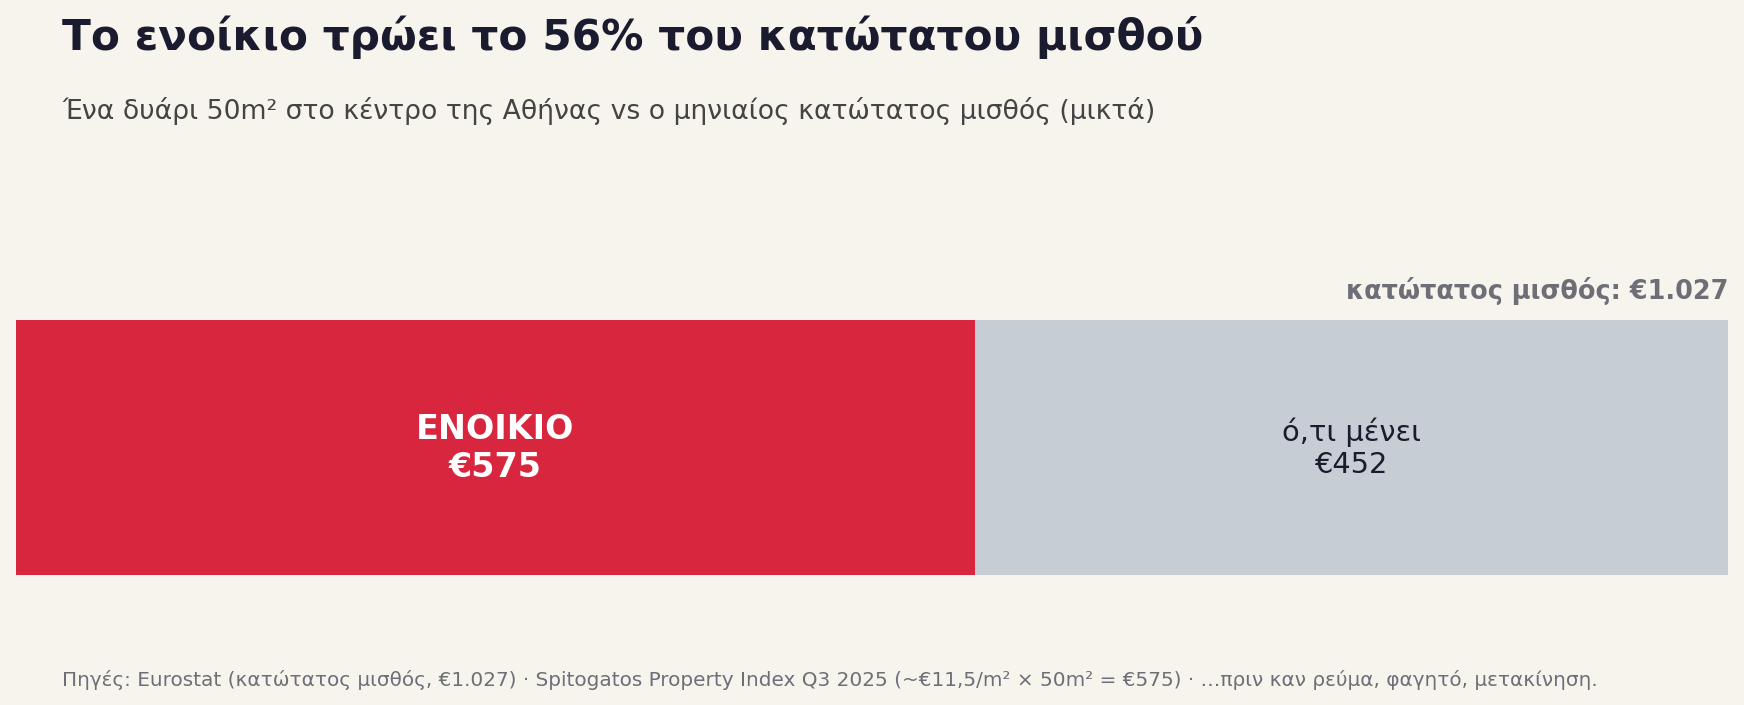
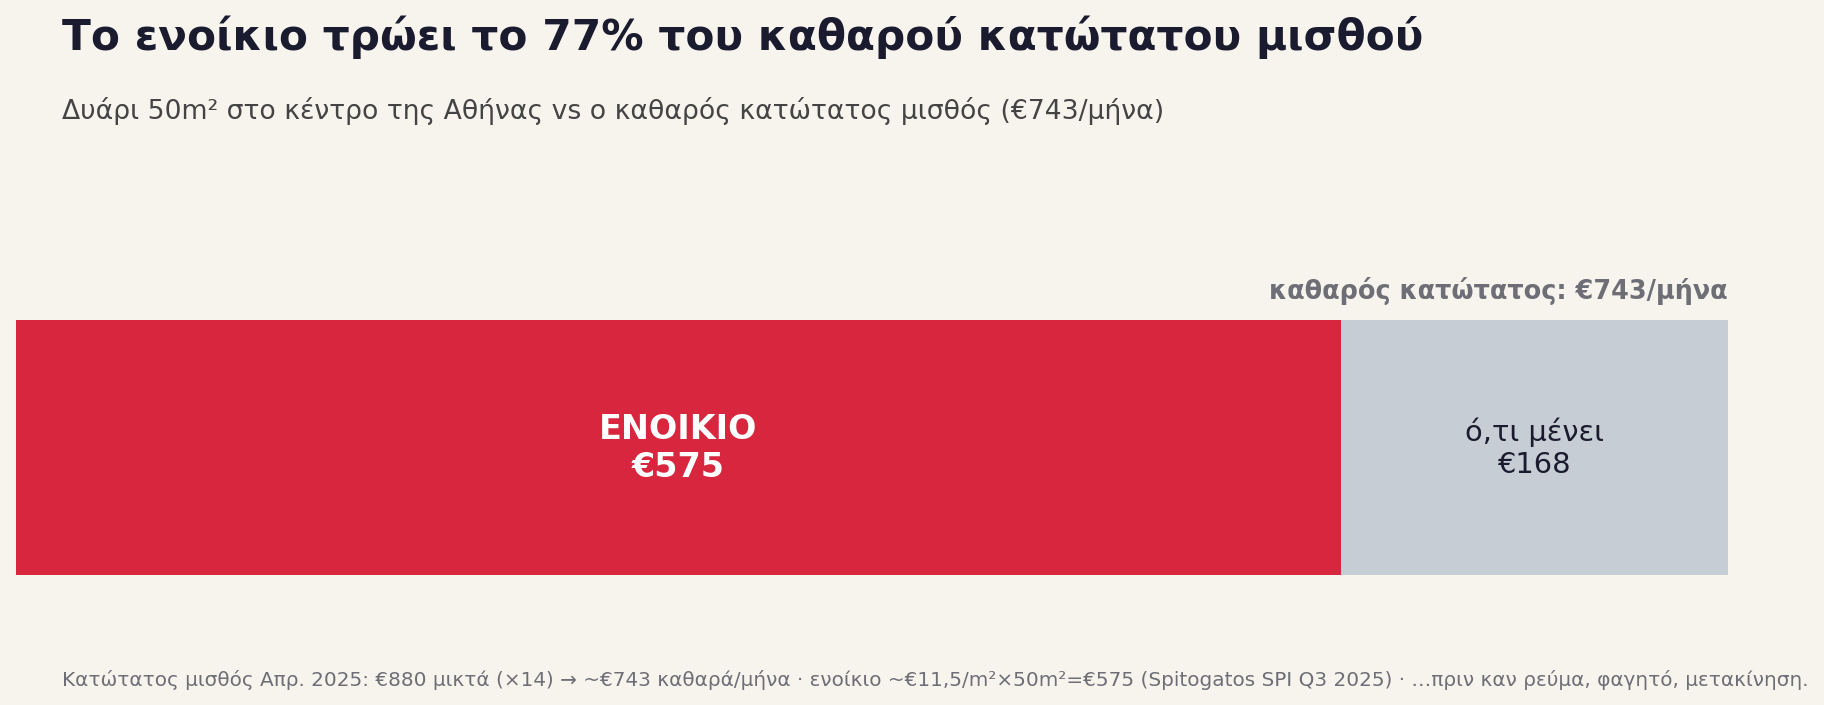
Fix minimum-wage framing: rent vs NET wage (77%), not gross-12mo (56%)
The €1.027 Eurostat figure is the 12-month-harmonized minimum wage (Greek
statutory €880 gross ×14 payments). Comparing rent to it understated the burden
and used a number Greeks don't recognize. Housing chart + post now use net
take-home €743/mo → rent = 77%. Scorecard clarifies the €1.027 harmonization.

diff --git a/housing/scripts/chart.py b/housing/scripts/chart.py
@@ -1,7 +1,7 @@
 #!/usr/bin/env python3
 """Housing-cluster chart: rent as a share of the minimum wage.
 Run from housing/:  python3 scripts/chart.py  → output/young_persons_bill.png
-Sources: Eurostat earn_mw_cur (min wage €1.027), Spitogatos SPI Q3 2025 (~€11,5/m² → €575/50m²).
+Sources: Greek statutory min wage Apr-2025 €880 gross (×14) → ~€743 net/mo; Spitogatos SPI Q3 2025 (~€11,5/m² → €575/50m²).
 """
 import os
 import matplotlib
@@ -9,7 +9,7 @@ matplotlib.use("Agg")
 import matplotlib.pyplot as plt
 
 PAPER, INK, RED, GRAY, MUTED = "#F7F4EE", "#1B1B2F", "#D7263D", "#C7CDD4", "#6E6E76"
-WAGE, RENT = 1027, 575
+WAGE, RENT = 743, 575   # καθαρός κατώτατος €743/μήνα (μικτός €880×14μ), ενοίκιο 50m² κέντρο
 REMAIN = WAGE - RENT
 rent_pct = round(100 * RENT / WAGE)
 
@@ -21,17 +21,17 @@ ax.text(RENT / 2, 0, f"ΕΝΟΙΚΙΟ\n€{RENT}", ha="center", va="center", col
 ax.text(RENT + REMAIN / 2, 0, f"ό,τι μένει\n€{REMAIN}", ha="center", va="center",
         color=INK, fontsize=13)
 # bracket / total
-ax.annotate(f"κατώτατος μισθός: €{WAGE:,}".replace(",", "."), xy=(WAGE, 0.45),
+ax.annotate(f"καθαρός κατώτατος: €{WAGE:,}".replace(",", ".") + "/μήνα", xy=(WAGE, 0.45),
             ha="right", va="bottom", fontsize=11.5, color=MUTED, fontweight="bold")
 ax.set_xlim(0, WAGE)
 ax.set_ylim(-0.6, 0.7)
 ax.axis("off")
-fig.suptitle(f"Το ενοίκιο τρώει το {rent_pct}% του κατώτατου μισθού",
+fig.suptitle(f"Το ενοίκιο τρώει το {rent_pct}% του καθαρού κατώτατου μισθού",
              fontsize=19, fontweight="bold", x=0.04, ha="left", color=INK, y=0.96)
-fig.text(0.04, 0.82, "Ένα δυάρι 50m² στο κέντρο της Αθήνας vs ο μηνιαίος κατώτατος μισθός (μικτά)",
+fig.text(0.04, 0.82, "Δυάρι 50m² στο κέντρο της Αθήνας vs ο καθαρός κατώτατος μισθός (€743/μήνα)",
          fontsize=12, color="#444")
-fig.text(0.04, 0.05, "Πηγές: Eurostat (κατώτατος μισθός, €1.027) · Spitogatos Property Index Q3 2025 "
-                     "(~€11,5/m² × 50m² = €575) · …πριν καν ρεύμα, φαγητό, μετακίνηση.",
+fig.text(0.04, 0.05, "Κατώτατος μισθός Απρ. 2025: €880 μικτά (×14) → ~€743 καθαρά/μήνα · ενοίκιο ~€11,5/m²×50m²=€575 "
+                     "(Spitogatos SPI Q3 2025) · …πριν καν ρεύμα, φαγητό, μετακίνηση.",
          fontsize=9, color=MUTED)
 ax.set_facecolor(PAPER); fig.patch.set_facecolor(PAPER)
 fig.tight_layout(rect=[0, 0.08, 1, 0.80])

diff --git a/README.md b/README.md
@@ -63,7 +63,7 @@ Cross-analysis tying together Airbnb + rents + Eurostat. No own raw data (cites 
 
 - `housing/scripts/chart.py` — `output/young_persons_bill.png` (rent as % of minimum wage)
 
-**Finding:** central-Athens rent for a 50m² flat (~€11,5/m², Spitogatos SPI Q3 2025 → ~€575/mo) eats **56% of the €1.027 minimum wage** — alongside 56% of 25-34s living with parents and ~1-in-20 Athens dwellings on Airbnb. The structural arithmetic behind why young Greeks stay home.
+**Finding:** central-Athens rent for a 50m² flat (~€11,5/m², Spitogatos SPI Q3 2025 → ~€575/mo) eats **77% of the net minimum wage** (€743/mo take-home; €880 gross ×14) — alongside 56% of 25-34s living with parents and ~1-in-20 Athens dwellings on Airbnb. The structural arithmetic behind why young Greeks stay home.
 
 ## Findings log
 
